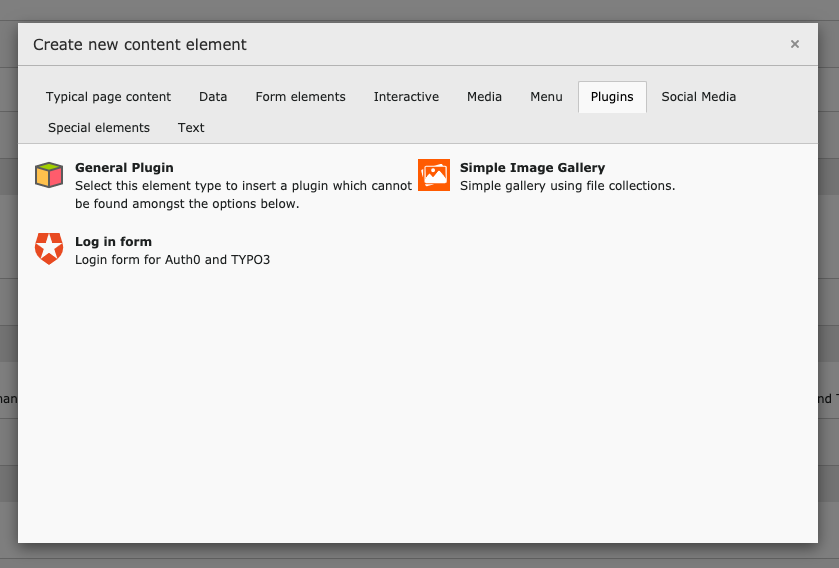
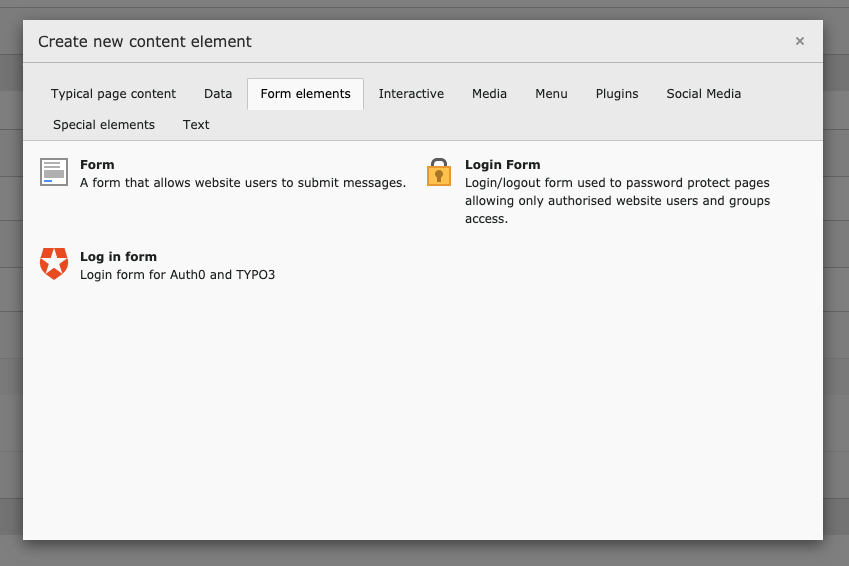
[DOC] Exchange images and fix some minor bugs

Changed region(s): [[0.0, 0.03, 0.9917, 0.9611], [0.062, 0.1502, 0.5268, 0.1802], [0.5578, 0.1502, 0.8987, 0.1802]]

diff --git a/Documentation/Administration/DataType/Application.rst b/Documentation/Administration/DataType/Application.rst
@@ -7,19 +7,159 @@ Application Record
 ==================
 
 There is one record, called *application*, which you can create/edit. It contains the Auth0 server authorization configuration
-and it is used to establish a connection with your Auth0-Server.
+and it is used to establish a connection with your Auth0 server.
 
-You can configure the following properties:
+Properties
+==========
 
-=============  ============= =======================================================================================================
-Property       Default Value Description
-=============  ============= =======================================================================================================
-Name                         A unique title for your application.
-Domain                       The domain of your Auth0 server.
-Client ID                    The client ID of your Auth0 application.
-Client Secret                The client secret of your Auth0 application.
-Audience       `api/v2/`     Audience for API calls.
-Single Log Out `true`        Whether the user should be logged off in TYPO3 only (`false`) or logged of in Auth0 and TYPO3 (`true`).
+.. container:: ts-properties
+
+   ============================== ========================= ==================
+   Property                       Database Property         Type
+   ============================== ========================= ==================
+   Name                           title_                    string
+   Domain                         domain_                   string
+   Client Identifier              id_                       string
+   Client Secret                  secret_                   string
+   JWT Signature Algorithm        signature_algorithm_      string
+   Client Secret Base64 Encoded   secret_base64_encoded_    boolean
+   Audience                       audience_                 string
+   Single Log Out                 single_log_out_           boolean
+   Enabeld                        hidden_                   boolean
+   ============================== ========================= ==================
+
+.. ### BEGIN~OF~TABLE ###
+
+.. _admin-configuration-title:
+
+title
+-----
+.. container:: table-row
+
+   Property
+         title
+   Data type
+         string
+   Default
+         unset
+   Description
+         A unique, freely definable, name of your application.
+
+
+.. _admin-configuration-domain:
+
+domain
+------
+.. container:: table-row
+
+   Property
+         domain
+   Data type
+         string
+   Default
+         unset
+   Description
+         The domain of your Auth0 tenant. Your tenant is available under `tenant.region.auth0.com` by default. Please fill in this
+         URL without the protocol (without `https://`). If you are using **custom domains** you can fill in the URL of your
+         domain (e.g. `login.example.com`).
+
+
+.. _admin-configuration-id:
+
+id
+--
+.. container:: table-row
+
+   Property
+         id
+   Data type
+         string
+   Default
+         unset
+   Description
+         The client ID of your Auth0 application.
+
+
+.. _admin-configuration-secret:
+
+secret
+------
+.. container:: table-row
+
+   Property
+         secret
+   Data type
+         string
+   Default
+         unset
+   Description
+         The client secret of your Auth0 application.
+
+
+.. _admin-configuration-signature_algorithm:
+
+signature_algorithm
+-------------------
+.. container:: table-row
+
+   Property
+         signature_algorithm
+   Data type
+         string
+   Default
+         :code:`RS256`
+   Description
+         The signature algorithm of the used JSON Web Token. Possible values are `RS256` and `HS256`
+
+
+.. _admin-configuration-secret_base64_encoded:
+
+secret_base64_encoded
+---------------------
+.. container:: table-row
+
+   Property
+         secret_base64_encoded
+   Data type
+         boolean
+   Default
+         :code:`false`
+   Description
+         Set this property to true when your client secret is base64 encoded.
+
+
+.. _admin-configuration-audience:
+
+audience
+--------
+.. container:: table-row
+
+   Property
+         audience
+   Data type
+         string
+   Default
+         :code:`api/v2/`
+   Description
+         This property contains the path to the audience of your Auth0 application. If you are using your tenant ID, the default
+         value should fit your needs. If you are using a **custom domain** you should adapt this configuration and fill in the
+         full URL of your audience (e.g. `https://tenant.region.auth0.com/api/v2/`).
+
+
+.. _admin-configuration-single_log_out:
+
+single_log_out
+--------------
+.. container:: table-row
+
+   Property
+         single_log_out
+   Data type
+         boolean
+   Default
+         :code:`true`
+   Description
+         Whether the user should be logged off in TYPO3 only (`false`) or logged off in Auth0 and TYPO3 (`true`).
 
 
 Custom Domain
@@ -28,7 +168,7 @@ Custom Domain
 If you are using a custom domain for your Auth0 tenant, than you have to do following configuration to log in using your custom
 domain:
 
-.. code-block::
+.. code-block:: typoscript
 
    audience = https://tenant.region.auth0.com/api/v2/
-   domain = your-custom.domain.de
+   domain = login.example.com

diff --git a/Documentation/About/Index.rst b/Documentation/About/Index.rst
@@ -14,13 +14,14 @@ Compatibility
 You need access to an Auth0 instance. We are currently supporting following TYPO3 versions:
 
 .. csv-table:: Version Matrix
-   :header: "Extension Version", "TYPO3 10.3 Support", "TYPO3 9 Support", "TYPO3 8 Support"
+   :header: "Extension Version", "TYPO3 v10 Support", "TYPO3 v9 Support", "TYPO3 v8 Support"
    :align: center
 
-        "3.1.x", "x", "x", "-"
-        "3.0.x", "-", "x", "-"
-        "2.x", "-", "x", "-"
-        "1.x", "-", "-", "x"
+        "3.2.x", "🙋♂", "🙋♂", "🙅♀"
+        "3.1.x", "🙋♂", "🙋♂", "🙅♀"
+        "3.0.x", "🙅♀", "🙋♂", "🙅♀"
+        "2.x", "🙅♀", "🙋♂", "🙅♀"
+        "1.x", "🙅♀", "🙅♀", "🙋♂"
 
 
 About Auth0

diff --git a/Documentation/Administration/Callback/Index.rst b/Documentation/Administration/Callback/Index.rst
@@ -12,7 +12,7 @@ URL path of the callback is `/auth0/callback`. So, when your domain is `https://
 URL `https://www.ecample.com/auth0/callback` as allowed callback URL (and allowed logout URL if you are using the single sign out
 feature).
 
-.. figure:: ../../Images/auth0-callback-url
+.. figure:: ../../Images/auth0-callback-url.png
    :alt: Callback URL in the Auth0 dashboard
    :class: with-shadow
 

diff --git a/Documentation/Administration/Plugin/Index.rst b/Documentation/Administration/Plugin/Index.rst
@@ -6,7 +6,7 @@
 Plugin
 ======
 
-This extensions comes with a log in / log off plugin for frontend users. It is located underneath the plugin tab when creating a
+This extensions comes with a log in / log off plugin for frontend users. It is located underneath the forms tab when creating a
 new content element.
 
 .. image:: ../../Images/new-plugin.png

diff --git a/Documentation/Administration/Index.rst b/Documentation/Administration/Index.rst
@@ -66,7 +66,7 @@ Please take a look at the :ref:`command <command>` section.
 
     Callback/Index
     ConsoleCommand/Index
-    DataType/Index
+    DataType/Application
     ExtensionConfiguration/Index
     Plugin/Index
     TypoScript/Index
